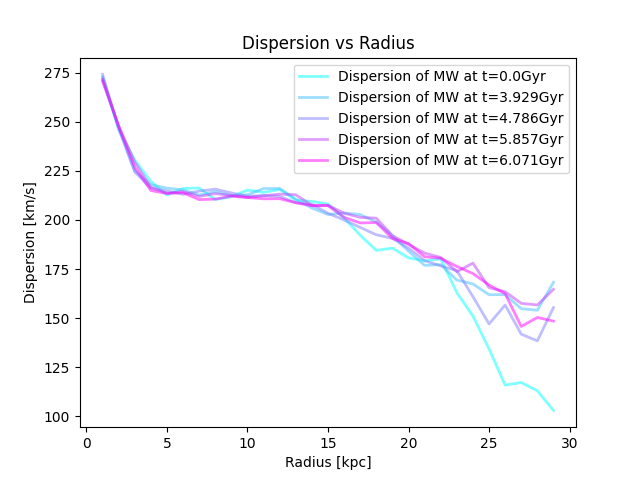
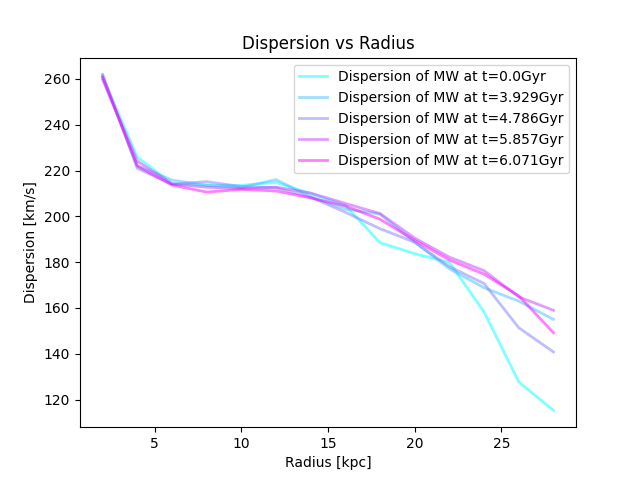
Updates to calculation resulting in new plots

diff --git a/Research_Assignment/ResearchAssignment6/VelocityDispersion.py b/Research_Assignment/ResearchAssignment6/VelocityDispersion.py
@@ -127,7 +127,7 @@ def Jacobi_Rad(snap, galaxy1, galaxy2):
 #Dispersion is calculated by:
                         #sigma = sqrt(1/N * sum((v_i - V_mean)^2))
                         #V_mean is the mean velocity within the shell
-def calculate_dispersion(snap,galaxy1, galaxy2,r=2.0/2):
+def calculate_dispersion(snap,galaxy1, galaxy2,r=2.0/1):
     '''
     This function
     input:
